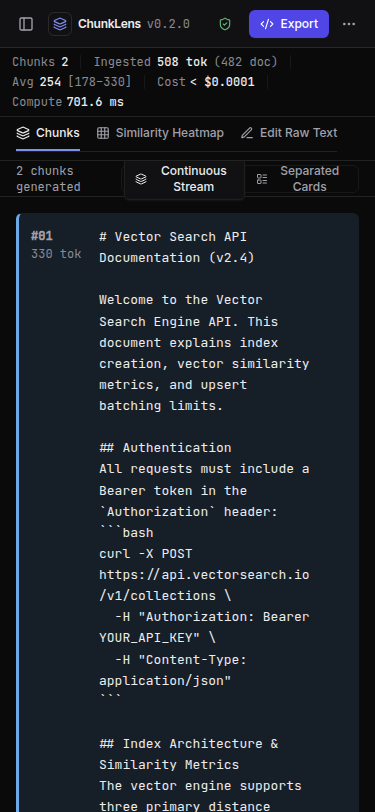
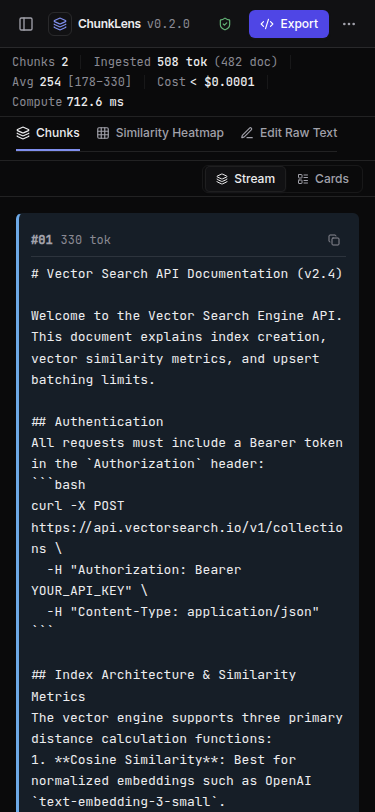
feat(canvas): stack chunk gutter above text below sm and shorten stream/cards toggle (Item V8)

diff --git a/src/components/VisualCanvas.tsx b/src/components/VisualCanvas.tsx
@@ -152,9 +152,9 @@ export const VisualCanvas: React.FC<VisualCanvasProps> = ({
       )}
 
       {/* Sub-header Toolbar: View Switcher & Stepper */}
-      <div className="h-9 px-4 sm:px-6 border-b border-border-default bg-surface/30 flex items-center justify-between text-xs select-none shrink-0">
+      <div className="h-9 px-3 sm:px-6 border-b border-border-default bg-surface/30 flex items-center justify-between text-xs select-none shrink-0">
         <div className="flex items-center space-x-3">
-          <span className="text-text-secondary font-mono text-xs tabular-nums">
+          <span className="text-text-secondary font-mono text-xs tabular-nums hidden sm:inline">
             {chunks.length} chunks generated
           </span>
 
@@ -185,12 +185,28 @@ export const VisualCanvas: React.FC<VisualCanvasProps> = ({
           )}
         </div>
 
-        {/* View Mode Toggle: Stream vs Cards */}
+        {/* View Mode Toggle: Stream vs Cards with responsive labels and whitespace-nowrap */}
         <SegmentedControl
           size="sm"
           options={[
-            { value: 'stream', label: 'Continuous Stream', icon: <Layers className="h-3 w-3" /> },
-            { value: 'cards', label: 'Separated Cards', icon: <LayoutList className="h-3 w-3" /> },
+            {
+              value: 'stream',
+              label: (
+                <span className="whitespace-nowrap">
+                  <span className="hidden sm:inline">Continuous </span>Stream
+                </span>
+              ),
+              icon: <Layers className="h-3 w-3" />,
+            },
+            {
+              value: 'cards',
+              label: (
+                <span className="whitespace-nowrap">
+                  <span className="hidden sm:inline">Separated </span>Cards
+                </span>
+              ),
+              icon: <LayoutList className="h-3 w-3" />,
+            },
           ]}
           value={viewMode}
           onChange={(val) => setViewMode(val as 'stream' | 'cards')}
@@ -244,7 +260,7 @@ export const VisualCanvas: React.FC<VisualCanvasProps> = ({
                   <div
                     onClick={() => onSelectChunk(isSelected ? null : chunk.id)}
                     className={cn(
-                      'group flex items-start gap-3 p-3 rounded-[6px] transition-all cursor-pointer border',
+                      'group flex flex-col sm:flex-row sm:items-start gap-1.5 sm:gap-3 p-3 rounded-[6px] transition-all cursor-pointer border',
                       isSelected
                         ? 'ring-2 ring-accent border-accent shadow-elevated'
                         : 'border-transparent hover:border-border-default'
@@ -255,38 +271,57 @@ export const VisualCanvas: React.FC<VisualCanvasProps> = ({
                       borderLeftWidth: '3px',
                     }}
                   >
-                    {/* Gutter: Index & Token Count */}
-                    <div className="w-14 shrink-0 flex flex-col items-start gap-0.5 text-text-tertiary select-none pt-0.5">
-                      <span className="font-semibold text-text-secondary tabular-nums text-xs">
-                        #{String(chunk.index + 1).padStart(2, '0')}
-                      </span>
-                      <span className="text-xs tabular-nums font-mono">
-                        {chunk.tokenCount} tok
-                      </span>
-                      {chunk.isOrphan && (
-                        <span
-                          className="text-xs text-status-warn font-sans font-medium px-1 rounded bg-status-warn/10 border border-status-warn/20"
-                          title="Mid-word or unclosed syntax cut"
-                        >
-                          Cut
+                    {/* Gutter: Index & Token Count (stacked horizontally on mobile, vertical column on sm+) */}
+                    <div className="w-full sm:w-14 shrink-0 flex flex-row sm:flex-col items-center sm:items-start justify-between sm:justify-start gap-2 sm:gap-0.5 text-text-tertiary select-none pt-0.5 border-b sm:border-b-0 border-border-subtle/40 pb-1 sm:pb-0">
+                      <div className="flex items-center gap-2 sm:flex-col sm:items-start sm:gap-0.5">
+                        <span className="font-semibold text-text-secondary tabular-nums text-xs">
+                          #{String(chunk.index + 1).padStart(2, '0')}
                         </span>
-                      )}
+                        <span className="text-xs tabular-nums font-mono">
+                          {chunk.tokenCount} tok
+                        </span>
+                        {chunk.isOrphan && (
+                          <span
+                            className="text-xs text-status-warn font-sans font-medium px-1 rounded bg-status-warn/10 border border-status-warn/20"
+                            title="Mid-word or unclosed syntax cut"
+                          >
+                            Cut
+                          </span>
+                        )}
+                      </div>
+
+                      {/* Mobile Copy Button */}
+                      <button
+                        onClick={(e) => {
+                          e.stopPropagation();
+                          handleCopyChunk(chunk.id, chunk.text);
+                        }}
+                        className="sm:hidden h-6 w-6 rounded hover:bg-elevated text-text-tertiary hover:text-text-primary flex items-center justify-center transition-all focus-ring shrink-0"
+                        title="Copy chunk text"
+                        aria-label={`Copy chunk ${chunk.index + 1}`}
+                      >
+                        {copiedId === chunk.id ? (
+                          <Check className="h-3.5 w-3.5 text-status-success" />
+                        ) : (
+                          <Copy className="h-3 w-3" />
+                        )}
+                      </button>
                     </div>
 
-                    {/* Chunk Text Body */}
-                    <div className="flex-1 min-w-0">
+                    {/* Chunk Text Body (Full width on mobile) */}
+                    <div className="flex-1 min-w-0 w-full">
                       <div className="whitespace-pre-wrap leading-relaxed text-text-primary text-[13px] break-words">
                         {chunk.text}
                       </div>
                     </div>
 
-                    {/* Quick Copy Button */}
+                    {/* Quick Copy Button on desktop (hover reveal) */}
                     <button
                       onClick={(e) => {
                         e.stopPropagation();
                         handleCopyChunk(chunk.id, chunk.text);
                       }}
-                      className="opacity-0 group-hover:opacity-100 h-6 w-6 rounded hover:bg-elevated text-text-tertiary hover:text-text-primary flex items-center justify-center transition-all focus-ring shrink-0"
+                      className="hidden sm:flex opacity-0 group-hover:opacity-100 h-6 w-6 rounded hover:bg-elevated text-text-tertiary hover:text-text-primary items-center justify-center transition-all focus-ring shrink-0"
                       title="Copy chunk text"
                       aria-label={`Copy chunk ${chunk.index + 1}`}
                     >

diff --git a/src/components/ui/SegmentedControl.tsx b/src/components/ui/SegmentedControl.tsx
@@ -3,7 +3,7 @@ import { cn } from '../../utils/cn';
 
 export interface SegmentedOption<T extends string> {
   value: T;
-  label: string;
+  label: React.ReactNode;
   icon?: React.ReactNode;
   badge?: string | number;
 }
@@ -85,7 +85,7 @@ export function SegmentedControl<T extends string>({
             aria-selected={isSelected}
             onClick={() => onChange(opt.value)}
             className={cn(
-              'flex items-center justify-center space-x-1.5 px-2.5 py-1 rounded-[5px] font-medium transition-all active-press focus-ring',
+              'flex items-center justify-center space-x-1.5 px-2.5 py-1 rounded-[5px] font-medium whitespace-nowrap transition-all active-press focus-ring',
               isSelected
                 ? 'bg-surface text-text-primary shadow-subtle border border-border-subtle'
                 : 'text-text-secondary hover:text-text-primary border border-transparent'
